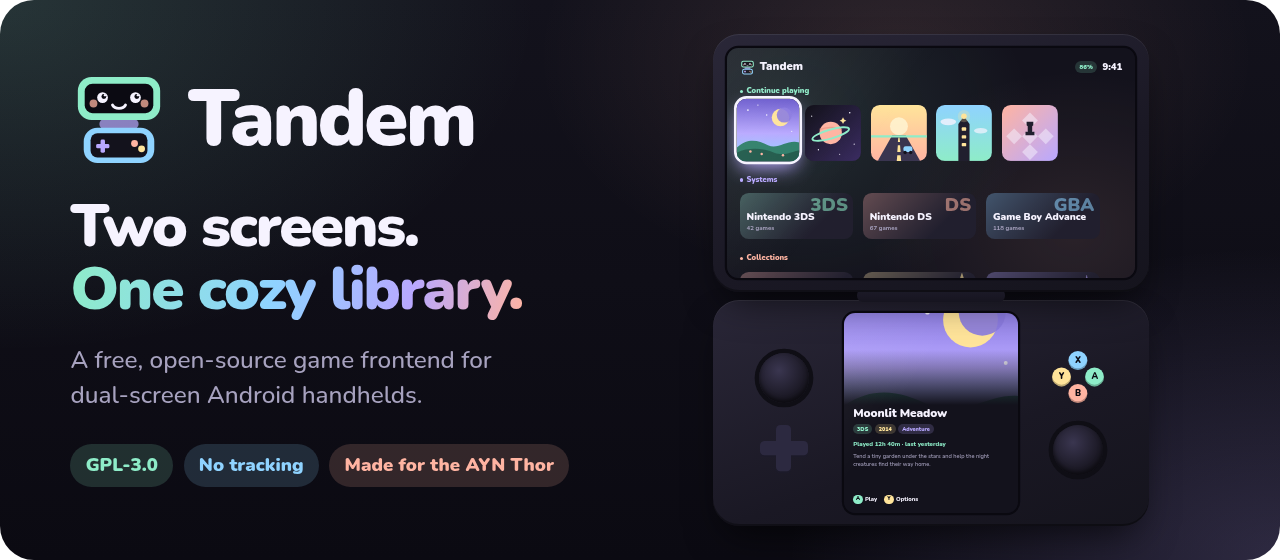
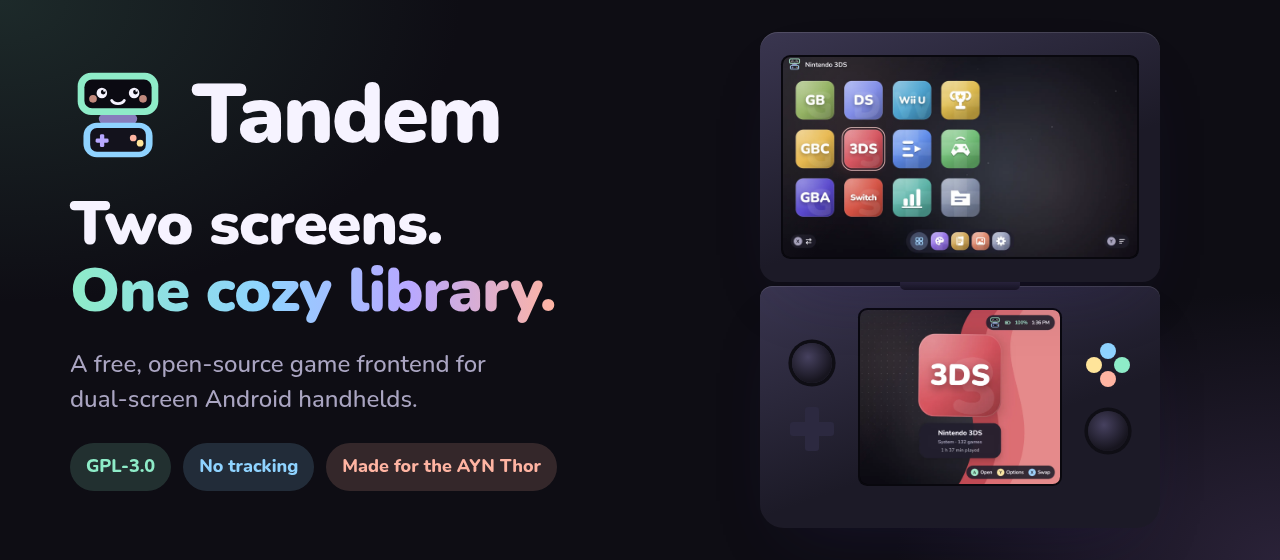
site, switcher: thor proportions, y closes from now playing

diff --git a/site/assets/brand/src/banner.html b/site/assets/brand/src/banner.html
@@ -1,0 +1,47 @@
+<!doctype html>
+<!-- Source of banner.png (1280×560) and social-preview.png (1280×640). Render with headless Chromium:
+     chromium --headless=new --hide-scrollbars --window-size=1280,560 --screenshot=banner.png banner.html
+     chromium --headless=new --hide-scrollbars --window-size=1280,640 --screenshot=social-preview.png banner.html
+     The handheld reuses the site's .device styles, so the banner and the landing page keep the same proportions. -->
+<html lang="en">
+<head>
+<meta charset="utf-8">
+<title>Tandem banner</title>
+<link rel="stylesheet" href="../../site.css">
+<style>
+  html, body { margin: 0; height: 100%; overflow: hidden; }
+  body { color-scheme: dark; background: radial-gradient(60% 90% at 0% 0%, #1d2a2a, transparent 60%), radial-gradient(50% 80% at 100% 100%, #2a2238, transparent 60%), #0e0d14; color: #f6f3ff; font-family: Nunito, sans-serif; }
+  .banner { height: 100%; display: grid; grid-template-columns: 640px 1fr; align-items: center; padding: 0 70px; box-sizing: border-box; }
+  .brand { display: flex; align-items: center; gap: 26px; margin-bottom: 30px; }
+  .brand img { width: 96px; }
+  .brand b { font-size: 84px; font-weight: 900; letter-spacing: -2px; line-height: 1; color: #f6f3ff; }
+  h1 { margin: 0; font-size: 62px; line-height: 1.08; font-weight: 900; letter-spacing: -1px; }
+  h1 .g { background: linear-gradient(90deg, #8eecc8, #8fd3ff 40%, #b8a8ff 70%, #ffb4a2); -webkit-background-clip: text; color: transparent; }
+  p { margin: 22px 0 26px; font-size: 24px; line-height: 1.45; color: #aaa5c2; max-width: 460px; }
+  .chips { display: flex; gap: 12px; }
+  .chips span { padding: 9px 16px; border-radius: 999px; font-weight: 800; font-size: 18px; color: var(--c); background: color-mix(in srgb, var(--c) 16%, transparent); }
+  /* About 1.28 times as tall as wide; fit it to the banner's height. */
+  .device { width: min(440px, calc((100vh - 48px) / 1.28)); justify-self: center; }
+  .device .pip { display: none; }
+</style>
+</head>
+<body>
+<div class="banner">
+  <div>
+    <div class="brand"><img src="../pip.svg" alt=""><b>Tandem</b></div>
+    <h1>Two screens.<br><span class="g">One cozy library.</span></h1>
+    <p>A free, open-source game frontend for dual-screen Android handhelds.</p>
+    <div class="chips"><span style="--c:#8eecc8">GPL-3.0</span><span style="--c:#8fd3ff">No tracking</span><span style="--c:#ffb4a2">Made for the AYN Thor</span></div>
+  </div>
+  <div class="device">
+    <div class="shell lid"><div class="glass"><img src="../../screenshots/home-top.webp" alt=""></div></div>
+    <div class="hinge"></div>
+    <div class="shell base">
+      <div class="ctl"><div class="stick"></div><div class="dpad"></div></div>
+      <div class="glass"><img src="../../screenshots/home-bottom-system.webp" alt=""></div>
+      <div class="ctl"><div class="abxy"><i></i><i></i><i></i><i></i></div><div class="stick"></div></div>
+    </div>
+  </div>
+</div>
+</body>
+</html>

diff --git a/app/src/main/java/io/github/zahakj/tandem/ui/Switcher.kt b/app/src/main/java/io/github/zahakj/tandem/ui/Switcher.kt
@@ -312,7 +312,6 @@ private fun SwitcherCard(r: RunningGame, modifier: Modifier) {
     }
 }
 
-private val nowConfirm = PressTwice()
 
 /** The card at the top of the home screen while a game runs in the background. */
 @OptIn(ExperimentalFoundationApi::class)
@@ -332,7 +331,7 @@ fun NowPlayingCard(r: RunningGame, target: String?) {
     // The card usually appears a moment after Tandem comes back, above where the list is scrolled; show it.
     val reveal = remember { BringIntoViewRequester() }
     LaunchedEffect(r.pkg) { runCatching { reveal.bringIntoView() } }
-    // Y on the card closes the game (twice), as on the icon grid's Resume card; the ✕ card beside it stays for touch.
+    // Y on the card closes the game (twice), as on the icon grid's Resume card; a long press does the same by touch.
     var resumeFocused by remember { mutableStateOf(false) }
     InterceptButtons(resumeFocused) { b -> if (b == Button.Y) { resumePageClose(ctx, r); true } else false }
     Column(Modifier.bringIntoViewRequester(reveal).padding(horizontal = 22.dp)) {
@@ -342,6 +341,7 @@ fun NowPlayingCard(r: RunningGame, target: String?) {
                 Modifier.weight(1f).fillMaxHeight().onFocusChanged { resumeFocused = it.hasFocus }.takesFocus(route, "now:resume", target == "now:resume"),
                 glow = color,
                 onFocus = { Selection.current = Selected.GameItem(game) },
+                onLongPress = { resumePageClose(ctx, r) },
                 onClick = { RunningGames.resume(ctx, r) },
             ) {
                 val hero = lib?.hero(game) ?: lib?.screenshot(game)
@@ -359,17 +359,6 @@ fun NowPlayingCard(r: RunningGame, target: String?) {
                         ButtonHint("Y", "Close", Palette.Peach)
                     }
                     Spacer(Modifier.width(6.dp))
-                }
-            }
-            FocusCard(
-                Modifier.width(92.dp).fillMaxHeight().takesFocus(route, "now:close", target == "now:close"),
-                glow = Palette.Peach,
-                onFocus = { Selection.current = Selected.GameItem(game) },
-                onClick = { if (nowConfirm.press(r.pkg, "Press again to close ${game.title}")) closeRunning(ctx, r) },
-            ) {
-                Column(Modifier.fillMaxSize(), verticalArrangement = Arrangement.Center, horizontalAlignment = Alignment.CenterHorizontally) {
-                    Text("✕", style = MaterialTheme.typography.headlineSmall, color = Palette.Peach)
-                    Text(if (nowConfirm.armed == r.pkg) "Again" else "Close", style = MaterialTheme.typography.labelLarge)
                 }
             }
             if (others > 0) {

diff --git a/site/assets/site.css b/site/assets/site.css
@@ -150,17 +150,18 @@ section { padding: clamp(56px, 8vw, 110px) 0; }
 .facts li:nth-child(2) { --c: var(--sky); }
 .facts li:nth-child(3) { --c: var(--peach); }
 
-/* The handheld: two real screenshots in a clamshell. Sized in container units so it scales as one piece. */
+/* The handheld: two real screenshots in a clamshell, in the AYN Thor's proportions (150 × 94 mm halves, a 6" 16:9 screen
+   on top and a 3.92" 31:27 one below). Sized in container units so it scales as one piece. */
 .device { container-type: inline-size; width: 100%; max-width: 600px; margin: 0 auto; position: relative; }
 .shell { border-radius: 4.5cqw; padding: 3.2cqw; background: linear-gradient(160deg, #3a3650, #1c1a27 60%); box-shadow: var(--shadow), inset 0 1px 0 rgb(255 255 255 / 0.12); }
-.shell.lid { position: relative; z-index: 2; }
-.shell.base { width: 92%; margin: -1cqw auto 0; display: grid; grid-template-columns: 1fr 43cqw 1fr; align-items: center; gap: 2cqw; padding: 3cqw 3cqw 4cqw; border-radius: 3cqw 3cqw 6cqw 6cqw; }
+.shell.lid { position: relative; z-index: 2; padding: 6.4cqw 5.7cqw; }
+.shell.base { margin-top: -1cqw; display: grid; grid-template-columns: 1fr 50cqw 1fr; align-items: center; gap: 2cqw; padding: 6cqw 3cqw 11cqw; border-radius: 3cqw 3cqw 6cqw 6cqw; }
 .glass { border-radius: 1.8cqw; overflow: hidden; background: #000; box-shadow: 0 0 0 0.5cqw #09080e; position: relative; }
 .glass img { width: 100%; height: 100%; object-fit: cover; }
 .glass::after { content: ""; position: absolute; inset: 0; pointer-events: none; background: linear-gradient(125deg, rgb(255 255 255 / 0.08), transparent 35%); }
 .lid .glass { aspect-ratio: 16 / 9; }
 .base .glass { aspect-ratio: 1240 / 1080; }
-.ctl { display: grid; place-items: center; gap: 4cqw; }
+.ctl { display: grid; place-items: center; gap: 6cqw; }
 .stick { width: 10cqw; aspect-ratio: 1; border-radius: 50%; background: radial-gradient(circle at 40% 35%, #46415f, #17151f 70%); box-shadow: 0 0 0 0.9cqw #0f0e15; }
 .dpad, .abxy { width: 11cqw; aspect-ratio: 1; position: relative; }
 .dpad::before, .dpad::after { content: ""; position: absolute; background: #2c2940; border-radius: 0.8cqw; }

diff --git a/app/src/main/java/io/github/zahakj/tandem/ui/Screens.kt b/app/src/main/java/io/github/zahakj/tandem/ui/Screens.kt
@@ -90,7 +90,7 @@ fun HomeScreen(libs: List<PlatformLibrary>) {
     val sections = Store.settings.look.homeSections.ifEmpty { listOf("systems") }
 
     val rows = buildList {
-        if (now != null) add(HomeRow("now", listOfNotNull("now:resume", "now:close", "now:more".takeIf { RunningGames.list.size > 1 })))
+        if (now != null) add(HomeRow("now", listOfNotNull("now:resume", "now:more".takeIf { RunningGames.list.size > 1 })))
         if (systems.isEmpty()) add(HomeRow("empty", listOf("empty:rescan")))
         for (s in sections) {
             when (s) {

diff --git a/site/index.html b/site/index.html
@@ -48,7 +48,7 @@
 <header class="hero">
   <div class="wrap">
     <div class="copy">
-      <span class="kicker"><b>v0.2</b> Free and open source</span>
+      <span class="kicker"><b>v0.3</b> Free and open source</span>
       <h1>Two screens.<br><span class="grad">One cozy library.</span></h1>
       <p class="lede">Tandem is a game frontend for Android handhelds, made for dual-screen devices like the AYN Thor. Browse on the top screen, see the art and details on the bottom, and pick a game up right where you left it.</p>
       <div class="cta">

diff --git a/app/src/main/java/io/github/zahakj/tandem/ui/Focus.kt b/app/src/main/java/io/github/zahakj/tandem/ui/Focus.kt
@@ -73,7 +73,7 @@ object FocusMemory {
      * closed (or exits), focus goes back to the item highlighted before, like the system or folder it was started
      * from, instead of the neighbour (which was always the first tile).
      */
-    private val passing = setOf(HomeExtras.RESUME, "now:resume", "now:close", "now:more")
+    private val passing = setOf(HomeExtras.RESUME, "now:resume", "now:more")
 
     fun remember(route: String, item: String) {
         keys[route] = item
